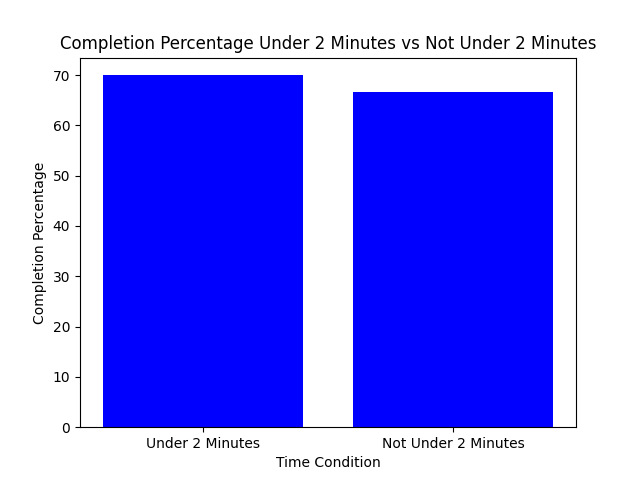
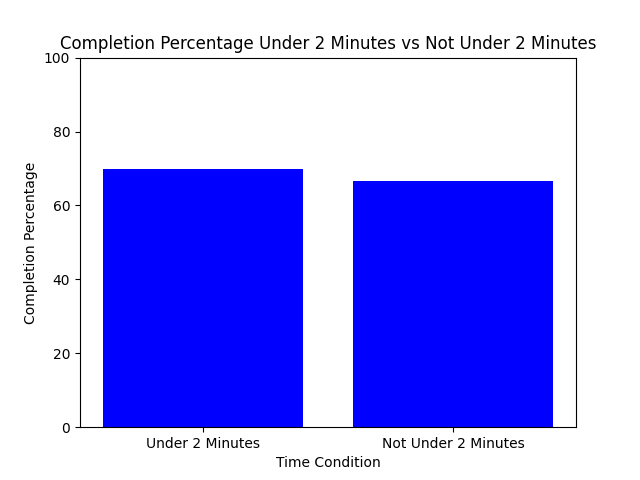
fix chart

diff --git a/index.html b/index.html
@@ -20,14 +20,22 @@
     <header>
         <h1>Marcus Mariota</h1>
     </header>
-    <button onclick="showImage('completionPerQuarter.png')">Per Quarter Completion</button>
-    <button onclick="showImage('completionPerDown.png')">Per Down Completion</button>
-    <button onclick="showImage('completion2minutes.png')">Under 2 Minutes Completion</button>
-    <button onclick="showImage('completionPassDepth.png')">Pass Depth Completion</button>
+    <button onclick="showImage('completionPerQuarter.png')">Per Quarter Completion Percentage</button>
+    <button onclick="showImage('completionPerDown.png')">Per Down Completion Percentage</button>
+    <button onclick="showImage('completion2minutes.png')">Under 2 Minutes Completion Percentage</button>
+    <button onclick="showImage('completionPassDepth.png')">Pass Depth Completion Percentage</button>
+    <button onclick="showImage('completiontimetothrow.png')">Time To Throw Completion Percentage</button>
     <div id="image-container">
         <!-- The selected image will be displayed here dynamically -->
     </div>
-
+    <div class="stat-container">
+        <div class="stat">
+            <h2>11 Touchdowns</h2>
+        </div>
+        <div class="stat">
+            <h2>8 Interceptions</h2>
+        </div>
+    </div>
     <footer>
         <p>Matthew Rundle 12/14/2023</p>
     </footer>

diff --git a/style.css b/style.css
@@ -69,3 +69,20 @@ button {
 button:hover {
     background-color: #7d011a;
 }
+
+.stat-container {
+    display: flex;
+    justify-content: space-around;
+    margin-top: 20px;
+}
+
+.stat {
+    background-color: #C60C30;
+    padding: 20px;
+    border-radius: 8px;
+    box-shadow: 0 4px 8px rgba(0, 0, 0, 0.1);
+    width: 200px;
+    text-align: center;
+    color: white;
+
+}

diff --git a/success.py b/success.py
@@ -61,6 +61,7 @@ labels = ['Under 2 Minutes', 'Not Under 2 Minutes']
 plt.bar(labels, completion_percentage.values, color='blue', label='Completion Percentage')
 plt.xlabel('Time Condition')
 plt.ylabel('Completion Percentage')
+plt.ylim(0, 100)
 plt.title('Completion Percentage Under 2 Minutes vs Not Under 2 Minutes')
 
 # Save the plot as an image file
@@ -79,14 +80,33 @@ labels = completion_rate_by_depth.index.astype(str)
 plt.bar(labels, completion_percentage.values, color='blue', label='Completion Percentage')
 plt.xlabel('Pass Depth Category')
 plt.ylabel('Completion Percentage')
+plt.ylim(0, 100)
 plt.title('Completion Percentage by Pass Depth Category')
 
 # Save the plot as an image file
 plt.savefig('completionPassDepth.png')
 plt.clf()
 
+# Create time-to-throw intervals
+bins = [0, 1.5, 3.0, float('inf')]
+labels = ['0-1.5', '1.5-3.0', '3.0+']
+ten_08_data['TimeToThrowInterval'] = pd.cut(ten_08_data['pff_TIMETOTHROW'], bins=bins, labels=labels, right=False)
+
+# Group data by time-to-throw interval and quarter, then calculate completion rate
+grouped_data = ten_08_data.groupby(['TimeToThrowInterval'])['pff_PASSRESULT'].value_counts(normalize=True).unstack().fillna(0)
+completion_percentage = grouped_data['COMPLETE'] / (grouped_data['COMPLETE'] + grouped_data['INCOMPLETE'] + grouped_data['BATTED PASS'] + grouped_data['INTERCEPTION']) * 100
+
+
+plt.bar(labels, completion_percentage.values, color='blue', label='Completion Percentage')
+plt.xlabel('Time to Throw Interval')
+plt.ylabel('Completion Percentage')
+plt.title('Completion Percentage per Time-to-Throw Interval')
+plt.ylim(0, 100)
+plt.savefig('completiontimetothrow.png')
+plt.clf()
+
 # Filter rows where pff_PASSER is 'TEN 08 (QB)' and the play resulted in a touchdown
-touchdowns = data[(data['pff_PASSER'] == 'TEN 08 (QB)') & (data['pff_TOUCHDOWN'].str[:3] == 'TEN')]
+touchdowns = data[(data['pff_PASSER'] == 'TEN 08 (QB)') & (data['pff_TOUCHDOWN'].str[:3] == 'TEN') & (data['pff_PASSRESULT'] == 'COMPLETE')]
 
 # Get the total number of touchdowns
 total_touchdowns = touchdowns.shape[0]
